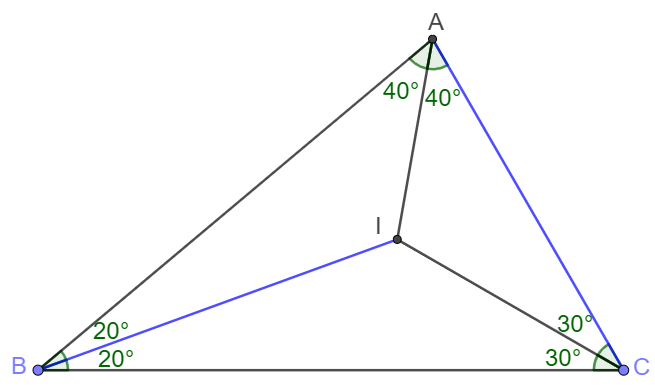
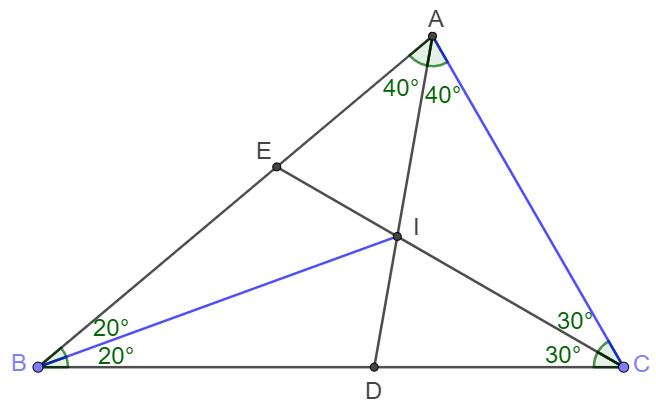
Add posts

Changed region(s): [[0.0, 0.0307, 1.0, 1.0]]

diff --git a/_posts/2021-04-01-geometry-problems.md b/_posts/2021-04-01-geometry-problems.md
@@ -32,13 +32,17 @@ $\implies O, D, A$ collinear $\implies \angle{DAC}=\angle{OAC}=\boxed{60^{\circ}
 
 ### 04/02/2021
 
-#### In $\triangle{ABC}, \angle{ABC}=40^{\circ}, \angle{BAC}=80^{\circ}, \angle{ACB}=60^{\circ}$, $I$ is the incenter. Prove: $BI=AC$
+#### In $\triangle{ABC}, \angle{ABC}=40^{\circ}, \angle{BAC}=80^{\circ}, \angle{ACB}=60^{\circ}$, $I$ is the incenter. Prove: 
+
+#### (1) $BI=AC; $  (2) $CD+AD=AC+AE;$  (3) $2AC=CD+AB$
+
+![image-20210402022832510](E:\workspace\mwo\assets\images\2021-04\image-20210402020530225.png)
 
 ![image-20210402020530225](/assets/images/2021-04/image-20210402020530225.png){:class="image--xl"}
 
 **Prove:**
 
-Let $D$ be the center of circumcircle of $\triangle{BIC} \implies DB=DI=DC$
+(1) Let $D$ be the center of circumcircle of $\triangle{BIC} \implies DB=DI=DC$
 
 ![image-20210402020808023](/assets/images/2021-04/image-20210402020808023.png){:class="image--xl"}
 
@@ -51,6 +55,8 @@ $\implies \angle{DCI}=70^{\circ} \implies \angle{CDI}=180^{\circ}-2*\angle{DCI}=
 $\implies \angle{CDI}+\angle{DCB}+\angle{ACB}+\angle{CAI}=40^{\circ}+40^{\circ}+60^{\circ}+40^{\circ}=180^{\circ}$
 
 $\implies A, I, D $ is collinear $\implies \angle{CDA}=\angle{DAC}=40^{\circ} \implies AC=CD=BI \blacksquare$
+
+(2) 
 
 ---
 
